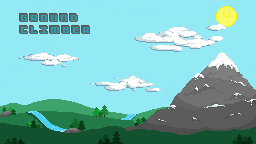
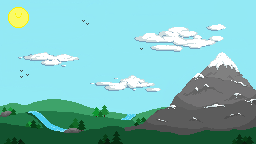
feat: separated title from background and animated it

Changed region(s): [[0.0312, 0.0278, 0.375, 0.25], [0.8438, 0.0278, 0.9375, 0.1944]]

diff --git a/core/src/main/java/io/github/alxtray/groundclimber/screens/MainMenuScreen.java b/core/src/main/java/io/github/alxtray/groundclimber/screens/MainMenuScreen.java
@@ -16,7 +16,6 @@ import com.badlogic.gdx.Gdx;
 import com.badlogic.gdx.Input;
 import com.badlogic.gdx.Screen;
 import com.badlogic.gdx.graphics.OrthographicCamera;
-import com.badlogic.gdx.graphics.g2d.BitmapFont;
 import com.badlogic.gdx.graphics.g2d.SpriteBatch;
 import com.badlogic.gdx.utils.ScreenUtils;
 
@@ -24,9 +23,16 @@ public class MainMenuScreen implements Screen {
 
     private final Core game;
 
+    private static final float TITLE_MOVE_AMOUNT = 1.4f;
     private final SpriteBatch batch;
     private final Stage stage;
     private final OrthographicCamera camera;
+    private final Texture title;
+    private final float titleWidth;
+    private final float titleHeight;
+    private final float titleX;
+    private float currentTitleY;
+    private float finalTitleY;
     private final Texture backgroundImage;
     private DebugRenderMode debugMode = DebugRenderMode.NORMAL;
 
@@ -37,6 +43,12 @@ public class MainMenuScreen implements Screen {
         camera = new OrthographicCamera();
         camera.setToOrtho(false, Gdx.graphics.getWidth(), Gdx.graphics.getHeight());
 
+        title = AssetLibrary.getInstance().getAsset("title", Texture.class);
+        titleWidth = camera.viewportWidth * 0.5f;
+        titleHeight = camera.viewportHeight * 0.25f;
+        titleX = (camera.viewportWidth - titleWidth) / 2;
+        currentTitleY = camera.viewportHeight;
+        finalTitleY = (camera.viewportHeight - titleHeight) / 1.2f;
         backgroundImage = AssetLibrary.getInstance().getAsset("title_background", Texture.class);
 
         stage = new Stage();
@@ -88,18 +100,20 @@ public class MainMenuScreen implements Screen {
             camera.position.y - (camera.viewportHeight / 2),
             camera.viewportWidth,
             camera.viewportHeight);
+        if (currentTitleY > finalTitleY) {
+            currentTitleY -= TITLE_MOVE_AMOUNT;
+        }
+        batch.draw(
+            title,
+            titleX,
+            currentTitleY,
+            titleWidth,
+            titleHeight);
         batch.end();
 
         stage.act(delta);
         stage.draw();
 
-        if (Gdx.input.isKeyJustPressed(Input.Keys.BACKSPACE)) {
-            Logger.log(
-                    "MainScreen",
-                    "Changing to GameScreen",
-                    LogLevel.DEBUG);
-            game.setScreen(new GameScreen(GameMode.ENDLESS, debugMode));
-        }
         if (Gdx.input.isKeyJustPressed(Input.Keys.F1)) {
             debugMode = DebugRenderMode.NORMAL;
             Logger.log(

diff --git a/core/src/main/java/io/github/alxtray/groundclimber/utilities/AssetLibrary.java b/core/src/main/java/io/github/alxtray/groundclimber/utilities/AssetLibrary.java
@@ -15,6 +15,7 @@ public class AssetLibrary {
     private static final String PLAYER_FACE_IMAGE_PATH = "player_face.png";
     private static final String PLATFORM_TILE_PATH = "platform.png";
     private static final String BACKGROUND_IMAGE_PATH = "background.png";
+    private static final String TITLE_TEXT_PATH = "title_text.png";
     private static final String TITLE_BACKGROUND_IMAGE_PATH = "title_background.png";
     private AssetManager assetManager;
     private ObjectMap<String, String> filePathAliases;
@@ -38,6 +39,8 @@ public class AssetLibrary {
         filePathAliases.put("skin", SKIN_JSON_PATH);
 
         TextureLoader.TextureParameter textureParameter = new TextureLoader.TextureParameter();
+        assetManager.load(TITLE_TEXT_PATH, Texture.class, textureParameter);
+        filePathAliases.put("title", TITLE_TEXT_PATH);
         assetManager.load(TITLE_BACKGROUND_IMAGE_PATH, Texture.class, textureParameter);
         filePathAliases.put("title_background", TITLE_BACKGROUND_IMAGE_PATH);
         assetManager.load(PLAYER_IMAGE_PATH, Texture.class, textureParameter);

diff --git a/core/src/main/java/io/github/alxtray/groundclimber/screens/LevelSelectScreen.java b/core/src/main/java/io/github/alxtray/groundclimber/screens/LevelSelectScreen.java
@@ -12,7 +12,6 @@ import com.badlogic.gdx.Gdx;
 import com.badlogic.gdx.Screen;
 import com.badlogic.gdx.files.FileHandle;
 import com.badlogic.gdx.graphics.OrthographicCamera;
-import com.badlogic.gdx.graphics.g2d.BitmapFont;
 import com.badlogic.gdx.graphics.g2d.SpriteBatch;
 import com.badlogic.gdx.scenes.scene2d.Actor;
 import com.badlogic.gdx.scenes.scene2d.InputEvent;
